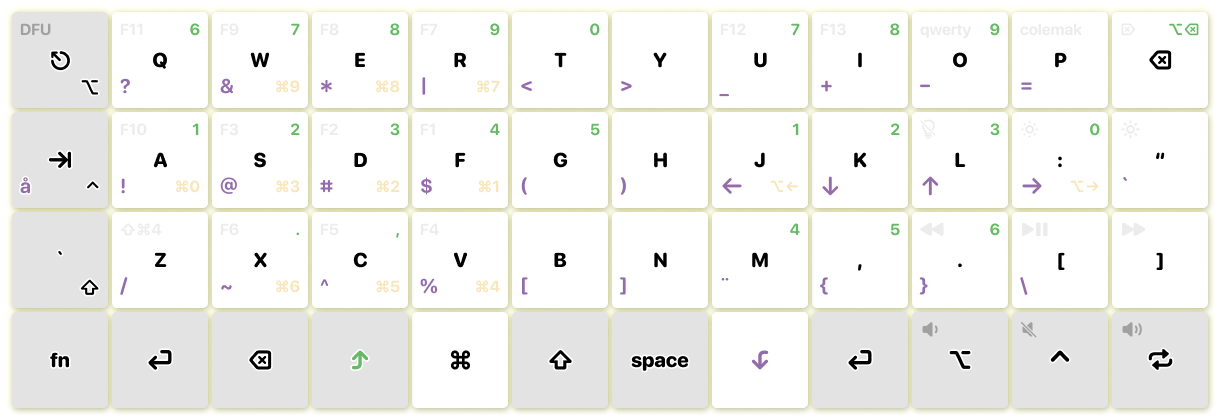
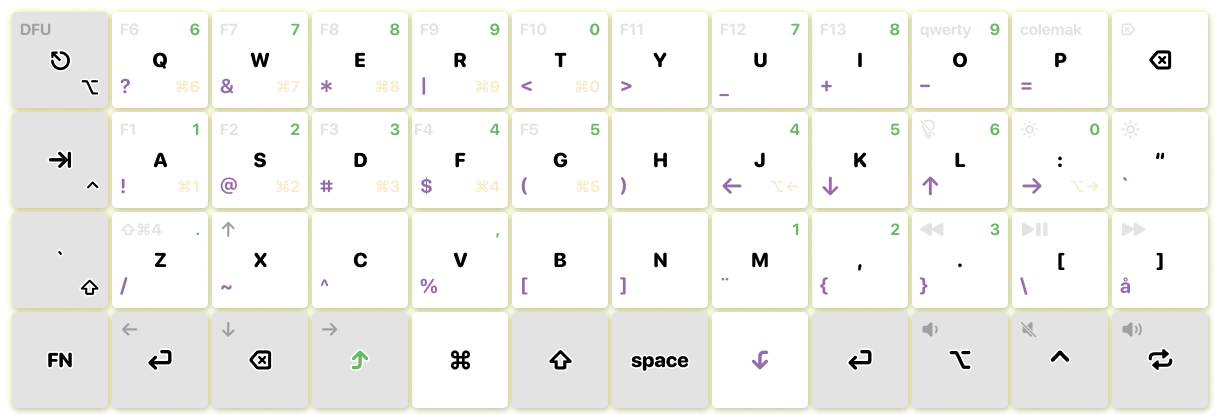
adjust remaining numbers, left hand arrows!

diff --git a/planck/keymap.c b/planck/keymap.c
@@ -103,7 +103,7 @@ const uint16_t PROGMEM keymaps[][MATRIX_ROWS][MATRIX_COLS] = {
 
 /* Lower
  * ,-----------------------------------------------------------------------------------------------.
- * | TRNS  |   ?   |   &   |   *   |   |   |   <   |   >   |   _   |   +   |   -   |   =   |  ⌥ ⌫  |
+ * | TRNS  |   ?   |   &   |   *   |   |   |   <   |   >   |   _   |   +   |   -   |   =   | TRNS  |
  * |-------+-------+-------+-------+-------+-------+-------+-------+-------+-------+-------+-------|
  * |   å   |   !   |   @   |   #   |   $   |   (   |   )   |   ←   |   ↓   |   ↑   |   →   |   `   |
  * |-------+-------+-------+-------+-------+-------+-------+-------+-------+-------+-------+-------|
@@ -114,8 +114,8 @@ const uint16_t PROGMEM keymaps[][MATRIX_ROWS][MATRIX_COLS] = {
  */
 [_LOWER] = LAYOUT_planck_grid(
     _______, KC_QUES, KC_AMPR, KC_ASTR, KC_PIPE, KC_LT,   KC_GT,   KC_UNDS, KC_PLUS, KC_MINS, KC_EQL,  _______,
-    A_RING,  KC_EXLM, KC_AT,   KC_HASH, KC_DLR,  KC_LPRN, KC_RPRN, KC_LEFT, KC_DOWN, KC_UP,   KC_RGHT, KC_GRV,
-    _______, KC_SLSH, KC_TILD, KC_CIRC, KC_PERC, KC_LBRC, KC_RBRC, UMLAUT,  KC_LCBR, KC_RCBR, KC_BSLS, XXXXXXX,
+    _______,  KC_EXLM, KC_AT,   KC_HASH, KC_DLR,  KC_LPRN, KC_RPRN, KC_LEFT, KC_DOWN, KC_UP,  KC_RGHT, KC_GRV,
+    _______, KC_SLSH, KC_TILD, KC_CIRC, KC_PERC, KC_LBRC, KC_RBRC, UMLAUT,  KC_LCBR, KC_RCBR, KC_BSLS, A_RING,
     XXXXXXX, _______, _______, RAISE,   _______, _______, _______, XXXXXXX, _______, _______, _______, _______
 ),
 
@@ -123,35 +123,35 @@ const uint16_t PROGMEM keymaps[][MATRIX_ROWS][MATRIX_COLS] = {
  * ,-----------------------------------------------------------------------------------------------.
  * | TRNS  |   6   |   7   |   8   |   9   |   0   |       |   7   |   8   |   9   |       | TRNS  |
  * |-------+-------+-------+-------+-------+-------+-------+-------+-------+-------+-------+-------|
- * | TRNS  |   1   |   2   |   3   |   4   |   5   |       |   1   |   2   |   3   |   0   |       |
+ * | TRNS  |   1   |   2   |   3   |   4   |   5   |       |   4   |   5   |   6   |   0   |       |
  * |-------+-------+-------+-------+-------+-------+-------+-------+-------+-------+-------+-------|
- * | TRNS  |   .   |       |       |   ,   |       |       |   4   |   5   |   6   |       |       |
+ * | TRNS  |   .   |       |       |   ,   |       |       |   1   |   2   |   3   |       |       |
  * |-------+-------+-------+-------+-------+-------+-------+-------+-------+-------+-------+-------|
  * |       | TRNS  | TRNS  |       | TRNS  | TRNS  | TRNS  |   ↘   | TRNS  | TRNS  | TRNS  | TRNS  |
  * `-----------------------------------------------------------------------------------------------'
   */
 [_RAISE] = LAYOUT_planck_grid(
-    _______, KC_6,    KC_7,    KC_8,    KC_9,    KC_0,    XXXXXXX, KC_7,    KC_8,    KC_9,    XXXXXXX, OP_BSPC,
-    _______, KC_1,    KC_2,    KC_3,    KC_4,    KC_5,    XXXXXXX, KC_1,    KC_2,    KC_3,    KC_0,    XXXXXXX,
-    _______, KC_DOT,  XXXXXXX, XXXXXXX, KC_COMM, XXXXXXX, XXXXXXX, KC_4,    KC_5,    KC_6,    XXXXXXX, XXXXXXX,
+    _______, KC_6,    KC_7,    KC_8,    KC_9,    KC_0,    XXXXXXX, KC_7,    KC_8,    KC_9,    XXXXXXX, _______,
+    _______, KC_1,    KC_2,    KC_3,    KC_4,    KC_5,    XXXXXXX, KC_4,    KC_5,    KC_6,    KC_0,    XXXXXXX,
+    _______, KC_DOT,  XXXXXXX, XXXXXXX, KC_COMM, XXXXXXX, XXXXXXX, KC_1,    KC_2,    KC_3,    XXXXXXX, XXXXXXX,
     LCTLTAB, _______, _______, XXXXXXX, _______, _______, _______, LOWER,   _______, _______, _______, _______
 ),
 
 /* Adjust
  * ,-----------------------------------------------------------------------------------------------.
- * | TRNS  |       |  ⌘ 9  |  ⌘ 8  |  ⌘ 7  |       |       |       |       |       |       |       |
+ * | TRNS  |  ⌘ 6  |  ⌘ 7  |  ⌘ 8  |  ⌘ 9  |  ⌘ 0  |       |       |       |       |       |       |
  * |-------+-------+-------+-------+-------+-------+-------+-------+-------+-------+-------+-------|
- * | TRNS  |  ⌘ 0  |  ⌘ 3  |  ⌘ 2  |  ⌘ 1  |       |       |  ⌥ ←  |       |       |  ⌥ →  |       |
+ * | TRNS  |  ⌘ 1  |  ⌘ 2  |  ⌘ 2  |  ⌘ 4  |  ⌘ 5  |       |  ⌥ ←  |       |       |  ⌥ →  |       |
  * |-------+-------+-------+-------+-------+-------+-------+-------+-------+-------+-------+-------|
- * | TRNS  |       |  ⌘ 6  |  ⌘ 5  |  ⌘ 4  |       |       |       |       |       |       |       |
+ * | TRNS  |       |       |       |       |       |       |       |       |       |       |       |
  * |-------+-------+-------+-------+-------+-------+-------+-------+-------+-------+-------+-------|
  * |       | TRNS  | TRNS  |       | TRNS  | TRNS  | TRNS  |       | TRNS  | TRNS  | TRNS  | TRNS  |
  * `-----------------------------------------------------------------------------------------------'
   */
 [_ADJUST] = LAYOUT_planck_grid(
-    _______, XXXXXXX, G(KC_9), G(KC_8), G(KC_7), XXXXXXX, XXXXXXX, XXXXXXX, XXXXXXX, XXXXXXX, XXXXXXX, XXXXXXX,
-    _______, G(KC_0), G(KC_3), G(KC_2), G(KC_1), XXXXXXX, XXXXXXX, OP_LEFT, XXXXXXX, XXXXXXX, OP_RGHT, XXXXXXX,
-    _______, XXXXXXX, G(KC_6), G(KC_5), G(KC_4), XXXXXXX, XXXXXXX, XXXXXXX, XXXXXXX, XXXXXXX, XXXXXXX, XXXXXXX,
+    _______, G(KC_6), G(KC_7), G(KC_8), G(KC_9), G(KC_0), XXXXXXX, XXXXXXX, XXXXXXX, XXXXXXX, XXXXXXX, XXXXXXX,
+    _______, G(KC_1), G(KC_2), G(KC_3), G(KC_4), G(KC_5), XXXXXXX, OP_LEFT, XXXXXXX, XXXXXXX, OP_RGHT, XXXXXXX,
+    _______, XXXXXXX, XXXXXXX, XXXXXXX, XXXXXXX, XXXXXXX, XXXXXXX, XXXXXXX, XXXXXXX, XXXXXXX, XXXXXXX, XXXXXXX,
     XXXXXXX, _______, _______, XXXXXXX, _______, _______, _______, XXXXXXX, _______, _______, _______, _______
 ),
 
@@ -161,16 +161,16 @@ const uint16_t PROGMEM keymaps[][MATRIX_ROWS][MATRIX_COLS] = {
  * |-------+-------+-------+-------+-------+-------+-------+-------+-------+-------+-------+-------|
  * | TRNS  |  F10  |  F3   |  F2   |  F1   |       |       |       |       |bcklght| brgh- | brgh+ |
  * |-------+-------+-------+-------+-------+-------+-------+-------+-------+-------+-------+-------|
- * | TRNS  |  ⇧⌘4  |  F6   |  F5   |  F4   |       |       |       |       | prev  | pause | next  |
+ * | TRNS  |  ⇧⌘4  |   ↑   |       |       |       |       |       |       | prev  | pause | next  |
  * |-------+-------+-------+-------+-------+-------+-------+-------+-------+-------+-------+-------|
- * | TRNS  | TRNS  | TRNS  |       | TRNS  | TRNS  | TRNS  |       | TRNS  | vol-  | mute  | vol+  |
+ * | TRNS  |   ←   |   ↓   |   →   | TRNS  | TRNS  | TRNS  |       | TRNS  | vol-  | mute  | vol+  |
  * `-----------------------------------------------------------------------------------------------'
  */
 [_FN] = LAYOUT_planck_grid(
-    RESET,   KC_F11,  KC_F9,   KC_F8,   KC_F7,   XXXXXXX, XXXXXXX, KC_F12,  KC_F13,  T_QWERT, T_COLEM, KC_DEL,
-    _______, KC_F10,  KC_F3,   KC_F2,   KC_F1,   XXXXXXX, XXXXXXX, XXXXXXX, XXXXXXX, RGB_TOG, KC_BRID, KC_BRIU,
-    _______, CMD_S_4, KC_F6,   KC_F5,   KC_F4,   XXXXXXX, XXXXXXX, XXXXXXX, XXXXXXX, KC_MPRV, KC_MPLY, KC_MNXT,
-    _______, _______, _______, XXXXXXX, _______, _______, _______, XXXXXXX, _______, KC_VOLD, KC_MUTE, KC_VOLU
+    RESET,   KC_F6,   KC_F7,   KC_F8,   KC_F9,   KC_F10,  KC_F11,  KC_F12,  KC_F13,  T_QWERT, T_COLEM, KC_DEL,
+    _______, KC_F1,   KC_F2,   KC_F3,   KC_F4,   KC_F5,   XXXXXXX, XXXXXXX, XXXXXXX, RGB_TOG, KC_BRID, KC_BRIU,
+    _______, CMD_S_4, KC_UP,   XXXXXXX, XXXXXXX, XXXXXXX, XXXXXXX, XXXXXXX, XXXXXXX, KC_MPRV, KC_MPLY, KC_MNXT,
+    _______, KC_LEFT, KC_DOWN, KC_RGHT, _______, _______, _______, XXXXXXX, _______, KC_VOLD, KC_MUTE, KC_VOLU
 )
 
 };
